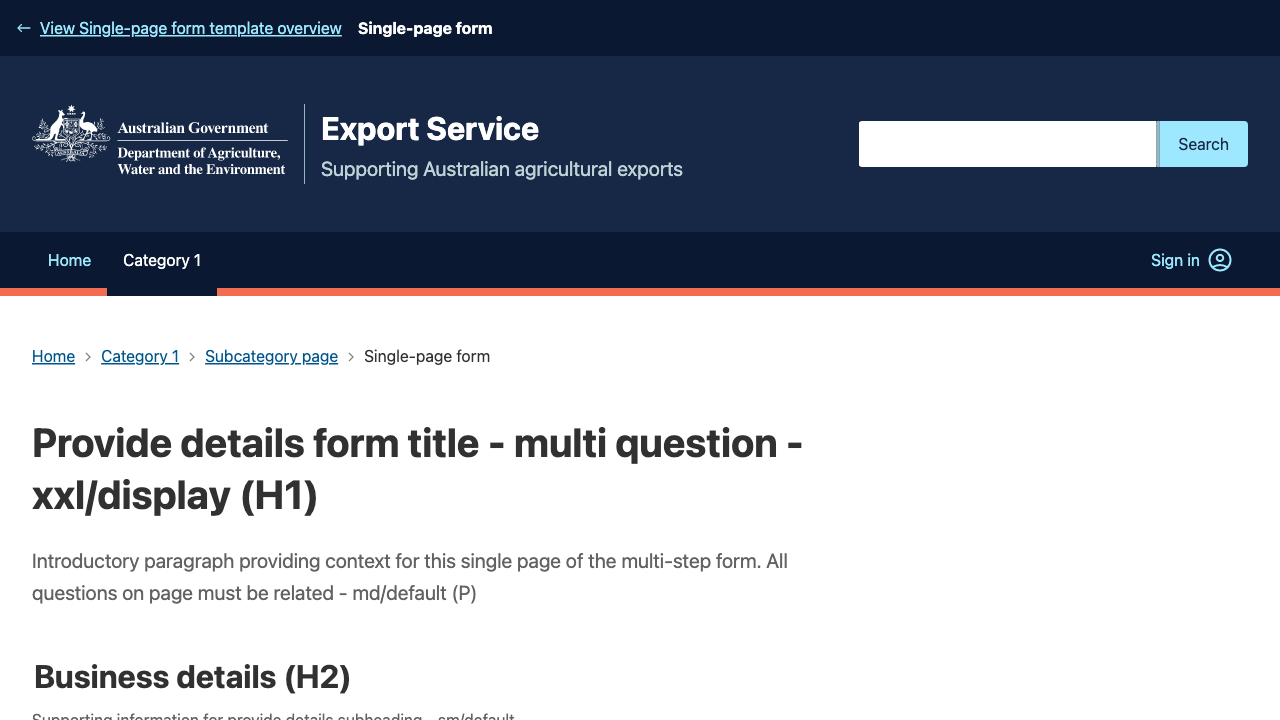
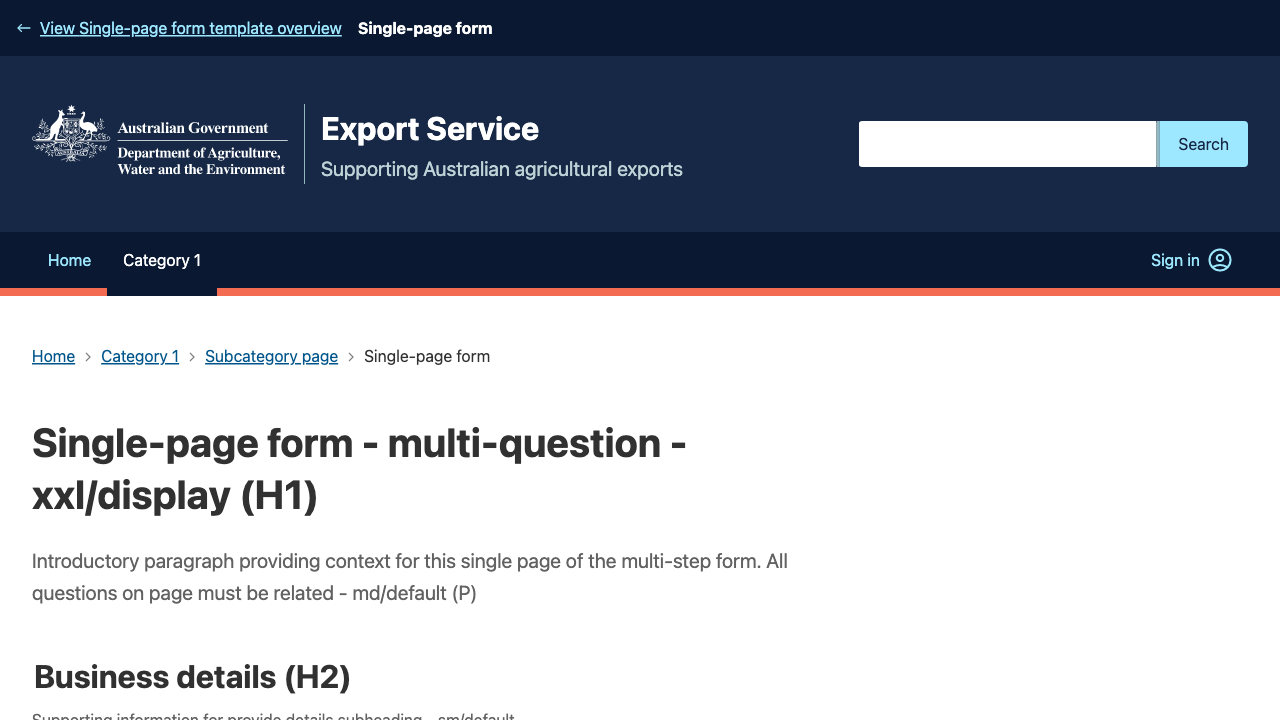
example-site: Rename form-multi-step to multi-page-form (#435)

Changed region(s): [[0.0312, 0.5806, 0.625, 0.6417]]

diff --git a/example-site/pages/category/subcategory/multi-page-form/index.tsx b/example-site/pages/category/subcategory/multi-page-form/index.tsx
@@ -1,4 +1,3 @@
-import type { NextPage } from 'next';
 import { PageContent } from '@ag.ds-next/content';
 import { Columns, Column } from '@ag.ds-next/columns';
 import { ButtonLink } from '@ag.ds-next/button';
@@ -14,12 +13,12 @@ import { FormExampleMultiStepCallout } from '../../../../components/FormExampleM
 import { PageTitle } from '../../../../components/PageTitle';
 import { FormDivider } from '../../../../components/FormDivider';
 
-const FormMultiStepPage: NextPage = () => {
+export default function FormMultiPageHomePage() {
 	return (
 		<>
-			<DocumentTitle title="Multi-step form example" />
+			<DocumentTitle title="Multi-page form example" />
 			<AppLayout
-				template={{ name: 'Multi-step form', slug: 'multi-step-form' }}
+				template={{ name: 'Multi-page form', slug: 'multi-page-form' }}
 			>
 				<PageContent>
 					<Columns>
@@ -33,19 +32,19 @@ const FormMultiStepPage: NextPage = () => {
 											href: '/category/subcategory',
 											label: 'Subcategory page',
 										},
-										{ label: 'Multi-step form' },
+										{ label: 'Multi-page form' },
 									]}
 								/>
 								<PageTitle
-									title="Multi-step form title (H1)"
-									introduction="The introductory paragraph provides context about the entire multi-step form. Use a short paragraph to reduce cognitive load."
+									title="Multi-page form title (H1)"
+									introduction="The introductory paragraph provides context about the entire multi-page form. Use a short paragraph to reduce cognitive load."
 								/>
 								<Stack gap={1.5}>
-									<H2>Multi-step form subheading (H2)</H2>
-									<Text as="p">Multi-step form subheading content</Text>
+									<H2>Multi-page form subheading (H2)</H2>
+									<Text as="p">Multi-page form subheading content</Text>
 								</Stack>
 								<div>
-									<ButtonLink href="/category/subcategory/form-multi-step/form">
+									<ButtonLink href="/category/subcategory/multi-page-form/form">
 										Start form
 									</ButtonLink>
 								</div>
@@ -79,6 +78,4 @@ const FormMultiStepPage: NextPage = () => {
 			</AppLayout>
 		</>
 	);
-};
-
-export default FormMultiStepPage;
+}

diff --git a/example-site/pages/category/subcategory/index.tsx b/example-site/pages/category/subcategory/index.tsx
@@ -1,4 +1,3 @@
-import type { NextPage } from 'next';
 import { Stack } from '@ag.ds-next/box';
 import { SectionContent } from '@ag.ds-next/content';
 import { H2, H3 } from '@ag.ds-next/heading';
@@ -12,7 +11,7 @@ import { Card, CardInner, CardLink, CardList } from '@ag.ds-next/card';
 import { AppLayout } from '../../../components/AppLayout';
 import { DocumentTitle } from '../../../components/DocumentTitle';
 
-const SubcategoryPage: NextPage = () => {
+export default function SubcategoryPage() {
 	return (
 		<>
 			<DocumentTitle title="Subcategory" />
@@ -52,7 +51,7 @@ const SubcategoryPage: NextPage = () => {
 								<CardInner>
 									<Stack gap={1}>
 										<H3>
-											<CardLink href="/category/subcategory/form-single-page">
+											<CardLink href="/category/subcategory/single-page-form">
 												Single-page form - lg / display / underline (H3)
 											</CardLink>
 										</H3>
@@ -67,8 +66,8 @@ const SubcategoryPage: NextPage = () => {
 								<CardInner>
 									<Stack gap={1}>
 										<H3>
-											<CardLink href="/category/subcategory/form-multi-step">
-												Multi-step form - lg / display / underline (H3)
+											<CardLink href="/category/subcategory/multi-page-form">
+												Multi-page form - lg / display / underline (H3)
 											</CardLink>
 										</H3>
 										<Text as="p">
@@ -101,6 +100,4 @@ const SubcategoryPage: NextPage = () => {
 			</AppLayout>
 		</>
 	);
-};
-
-export default SubcategoryPage;
+}

diff --git a/example-site/pages/category/subcategory/content.tsx b/example-site/pages/category/subcategory/content.tsx
@@ -1,4 +1,3 @@
-import type { NextPage } from 'next';
 import { Body } from '@ag.ds-next/body';
 import { PageContent, ContentBleed } from '@ag.ds-next/content';
 import { Columns, Column } from '@ag.ds-next/columns';
@@ -18,7 +17,7 @@ import { PageTitle } from '../../../components/PageTitle';
 import { DocumentTitle } from '../../../components/DocumentTitle';
 import { AppLayout } from '../../../components/AppLayout';
 
-const ContentPage: NextPage = () => {
+export default function ContentPage() {
 	return (
 		<>
 			<DocumentTitle title="Content page example" />
@@ -32,7 +31,7 @@ const ContentPage: NextPage = () => {
 									title="Category 1"
 									variant="light"
 									titleLink="/"
-									activePath="/content"
+									activePath="/category/subcategory/content"
 									items={sideNavItems}
 								/>
 							</ContentBleed>
@@ -142,7 +141,7 @@ const ContentPage: NextPage = () => {
 			</AppLayout>
 		</>
 	);
-};
+}
 
 const sideNavItems = [
 	{
@@ -150,7 +149,7 @@ const sideNavItems = [
 		label: 'Content page',
 	},
 	{
-		href: '#',
+		href: '/category/subcategory/content',
 		label: 'Content page',
 		items: [
 			{
@@ -192,5 +191,3 @@ const sideNavItems = [
 		label: 'Content page',
 	},
 ];
-
-export default ContentPage;

diff --git a/example-site/pages/category/subcategory/single-page-form.tsx b/example-site/pages/category/subcategory/single-page-form.tsx
@@ -1,4 +1,3 @@
-import type { NextPage } from 'next';
 import { Stack } from '@ag.ds-next/box';
 import { Breadcrumbs } from '@ag.ds-next/breadcrumbs';
 import { PageContent } from '@ag.ds-next/content';
@@ -8,7 +7,7 @@ import { DocumentTitle } from '../../../components/DocumentTitle';
 import { FormExampleSinglePage } from '../../../components/FormExampleSinglePage';
 import { PageTitle } from '../../../components/PageTitle';
 
-const FormSinglePage: NextPage = () => {
+export default function SinglePageFormPage() {
 	return (
 		<>
 			<DocumentTitle title="Single-page form example" />
@@ -31,8 +30,7 @@ const FormSinglePage: NextPage = () => {
 									]}
 								/>
 								<PageTitle
-									title="Single-page form - multi-question - xxl/display
-                  (H1)"
+									title="Single-page form - multi-question - xxl/display (H1)"
 									introduction="Introductory paragraph providing context for this single
                   page of the multi-step form. All questions on page must be
                   related - md/default (P)"
@@ -45,6 +43,4 @@ const FormSinglePage: NextPage = () => {
 			</AppLayout>
 		</>
 	);
-};
-
-export default FormSinglePage;
+}

diff --git a/example-site/pages/index.tsx b/example-site/pages/index.tsx
@@ -1,4 +1,3 @@
-import type { NextPage } from 'next';
 import { Stack } from '@ag.ds-next/box';
 import { ButtonGroup, ButtonLink } from '@ag.ds-next/button';
 import { SectionContent } from '@ag.ds-next/content';
@@ -16,7 +15,7 @@ import { AppLayout } from '../components/AppLayout';
 import { DocumentTitle } from '../components/DocumentTitle';
 import { ArticleCard } from '../components/ArticleCard';
 
-const Home: NextPage = () => {
+export default function HomePage() {
 	return (
 		<>
 			<DocumentTitle title="Home" />
@@ -40,8 +39,8 @@ const Home: NextPage = () => {
 						</HeroBannerSubtitle>
 					</HeroBannerTitleContainer>
 					<ButtonGroup>
-						<ButtonLink href="/form-sign-in">Create account</ButtonLink>
-						<ButtonLink href="/form-sign-in" variant="secondary">
+						<ButtonLink href="/sign-in-form">Create account</ButtonLink>
+						<ButtonLink href="/sign-in-form" variant="secondary">
 							Sign in
 						</ButtonLink>
 					</ButtonGroup>
@@ -112,6 +111,4 @@ const Home: NextPage = () => {
 			</AppLayout>
 		</>
 	);
-};
-
-export default Home;
+}

diff --git a/example-site/components/FormExampleMultiStep/FormExampleMultiStep.tsx b/example-site/components/FormExampleMultiStep/FormExampleMultiStep.tsx
@@ -104,7 +104,7 @@ export const FormExampleMultiStep = () => {
 	const [formState, setFormState] = useState<FormState>({});
 
 	const backToHomePage = useCallback(() => {
-		push('/category/subcategory/form-multi-step');
+		push('/category/subcategory/multi-page-form');
 	}, [push]);
 
 	/** When called, the user will be taken back to the previous step */
@@ -155,7 +155,7 @@ export const FormExampleMultiStep = () => {
 	if (success) {
 		return (
 			<AppLayout
-				template={{ name: 'Multi-step form', slug: 'multi-step-form' }}
+				template={{ name: 'Multi-page form', slug: 'multi-page-form' }}
 			>
 				<PageContent>
 					<Columns>
@@ -189,7 +189,7 @@ export const FormExampleMultiStep = () => {
 
 	return (
 		<AppLayout
-			template={{ name: 'Multi-step form', slug: 'multi-step-form' }}
+			template={{ name: 'Multi-page form', slug: 'multi-page-form' }}
 			focusMode
 		>
 			<PageContent>

diff --git a/example-site/pages/sign-in-form.tsx b/example-site/pages/sign-in-form.tsx
@@ -1,4 +1,3 @@
-import type { NextPage } from 'next';
 import { Stack } from '@ag.ds-next/box';
 import { PageContent } from '@ag.ds-next/content';
 import { Columns, Column } from '@ag.ds-next/columns';
@@ -7,7 +6,7 @@ import { DocumentTitle } from '../components/DocumentTitle';
 import { FormExampleSignIn } from '../components/FormExampleSignIn';
 import { PageTitle } from '../components/PageTitle';
 
-const FormSignInPage: NextPage = () => {
+export default function SignInFormPage() {
 	return (
 		<>
 			<DocumentTitle title="Sign in example" />
@@ -28,6 +27,4 @@ const FormSignInPage: NextPage = () => {
 			</AppLayout>
 		</>
 	);
-};
-
-export default FormSignInPage;
+}

diff --git a/example-site/pages/category/index.tsx b/example-site/pages/category/index.tsx
@@ -1,4 +1,3 @@
-import type { NextPage } from 'next';
 import { Stack } from '@ag.ds-next/box';
 import { SectionContent } from '@ag.ds-next/content';
 import { H2, H3 } from '@ag.ds-next/heading';
@@ -11,7 +10,7 @@ import { Card, CardInner, CardLink, CardList } from '@ag.ds-next/card';
 import { AppLayout } from '../../components/AppLayout';
 import { DocumentTitle } from '../../components/DocumentTitle';
 
-const CategoryPage: NextPage = () => {
+export default function CategoryPage() {
 	return (
 		<>
 			<DocumentTitle title="Category" />
@@ -56,6 +55,4 @@ const CategoryPage: NextPage = () => {
 			</AppLayout>
 		</>
 	);
-};
-
-export default CategoryPage;
+}

diff --git a/example-site/pages/category/subcategory/multi-page-form/form.tsx b/example-site/pages/category/subcategory/multi-page-form/form.tsx
@@ -1,15 +1,12 @@
-import type { NextPage } from 'next';
 import { Fragment } from 'react';
 import { DocumentTitle } from '../../../../components/DocumentTitle';
 import { FormExampleMultiStep } from '../../../../components/FormExampleMultiStep/FormExampleMultiStep';
 
-const FormMultiStepPage: NextPage = () => {
+export default function FormMultiPageFormPage() {
 	return (
 		<Fragment>
-			<DocumentTitle title="Multi-step form example" />
+			<DocumentTitle title="Multi-page form example" />
 			<FormExampleMultiStep />
 		</Fragment>
 	);
-};
-
-export default FormMultiStepPage;
+}

diff --git a/example-site/pages/_app.tsx b/example-site/pages/_app.tsx
@@ -3,12 +3,10 @@ import { Core } from '@ag.ds-next/core';
 import { theme } from '@ag.ds-next/ag-branding';
 import { LinkComponent } from '../components/LinkComponent';
 
-function MyApp({ Component, pageProps }: AppProps) {
+export default function MyApp({ Component, pageProps }: AppProps) {
 	return (
 		<Core theme={theme} linkComponent={LinkComponent}>
 			<Component {...pageProps} />
 		</Core>
 	);
 }
-
-export default MyApp;

diff --git a/example-site/components/TemplateBanner.tsx b/example-site/components/TemplateBanner.tsx
@@ -3,9 +3,9 @@ import { Text } from '@ag.ds-next/text';
 import { DirectionLink } from '../../packages/direction-link/src';
 
 export type TemplateBannerProps = {
-	/** Pretty name of template: e.g. Multi-step form */
+	/** Pretty name of template: e.g. Multi-page form */
 	name: string;
-	/** Template slug in the docs site. e.g. multi-step-form */
+	/** Template slug in the docs site. e.g. multi-page-form */
 	slug: string;
 };
 

diff --git a/docs/scripts/generateTemplateImages.js b/docs/scripts/generateTemplateImages.js
@@ -1,7 +1,7 @@
 /* eslint-disable @typescript-eslint/no-var-requires */
+const { normalize } = require('path');
 const { readdir, readFile } = require('fs/promises');
 const puppeteer = require('puppeteer');
-const { normalize } = require('path');
 const matter = require('gray-matter');
 
 const BASE_URL = `http://localhost:3000/agds-next/example-site`;
